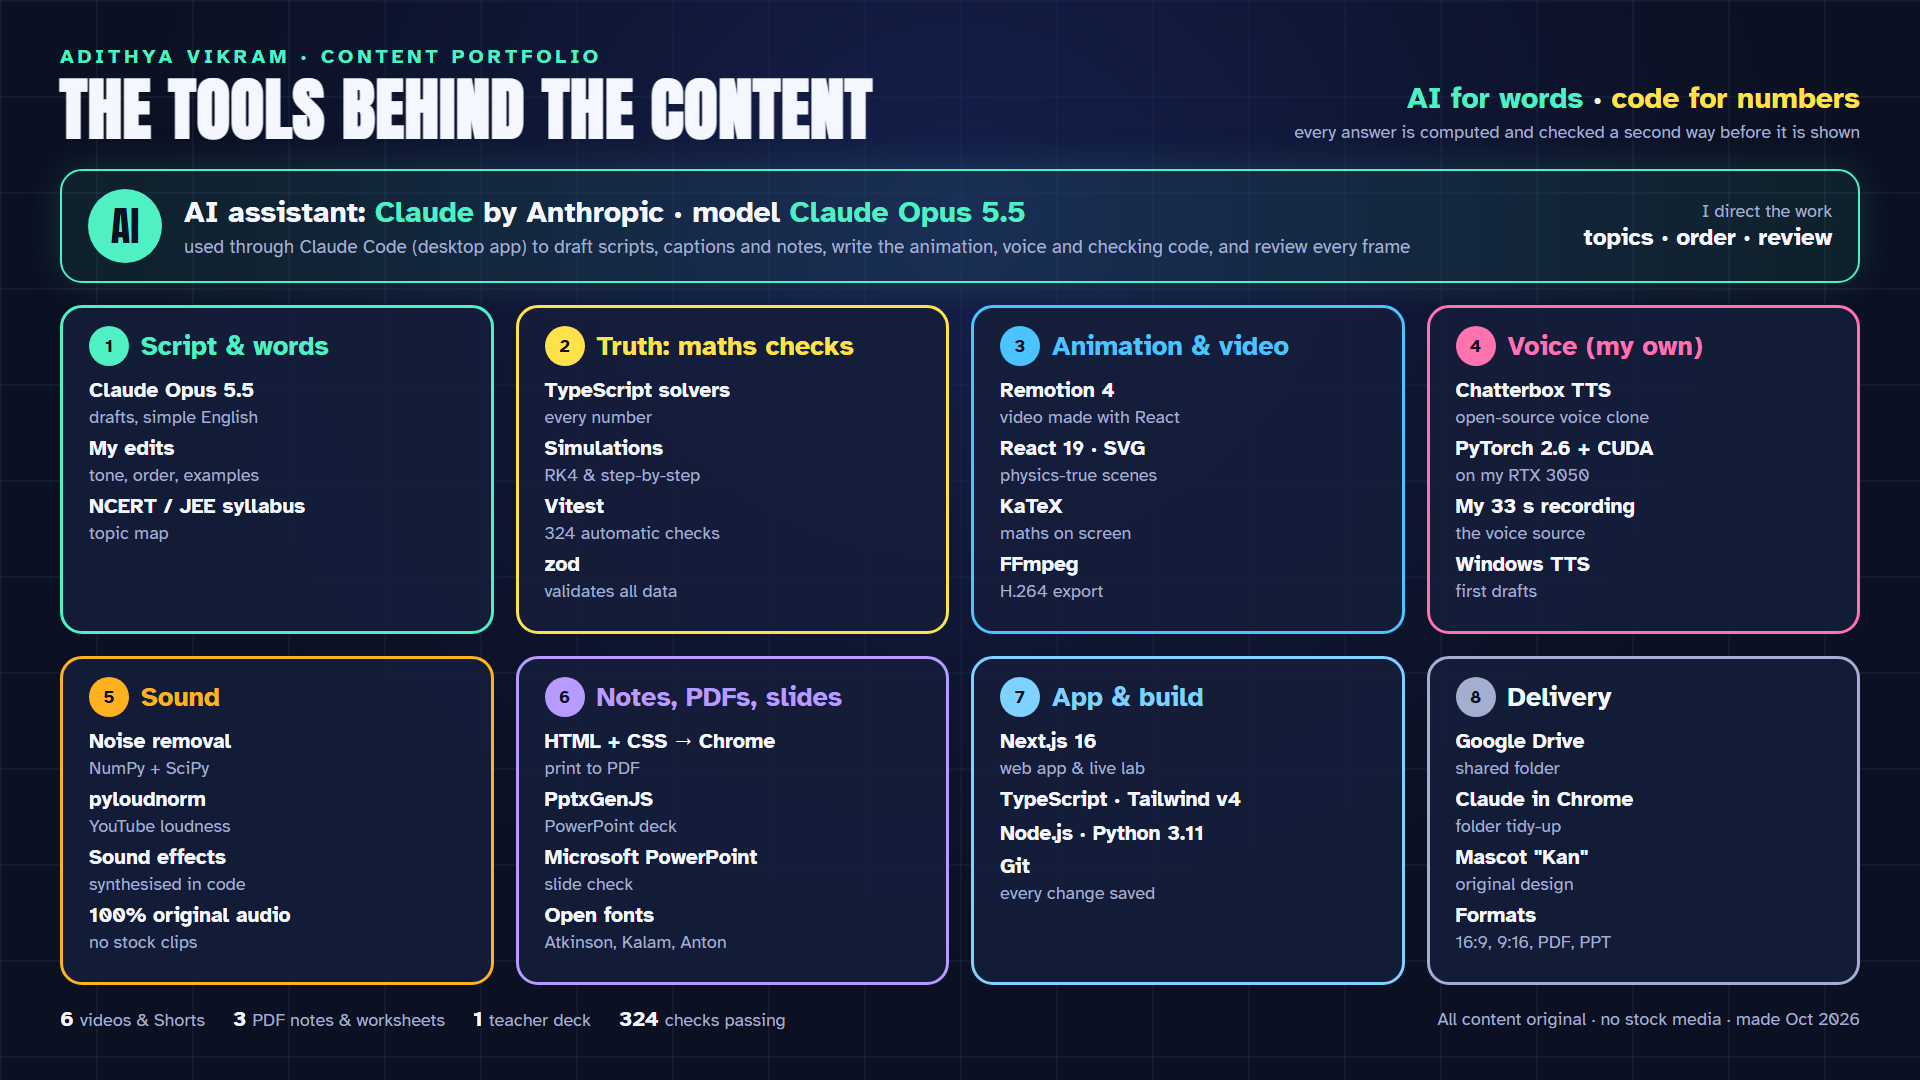
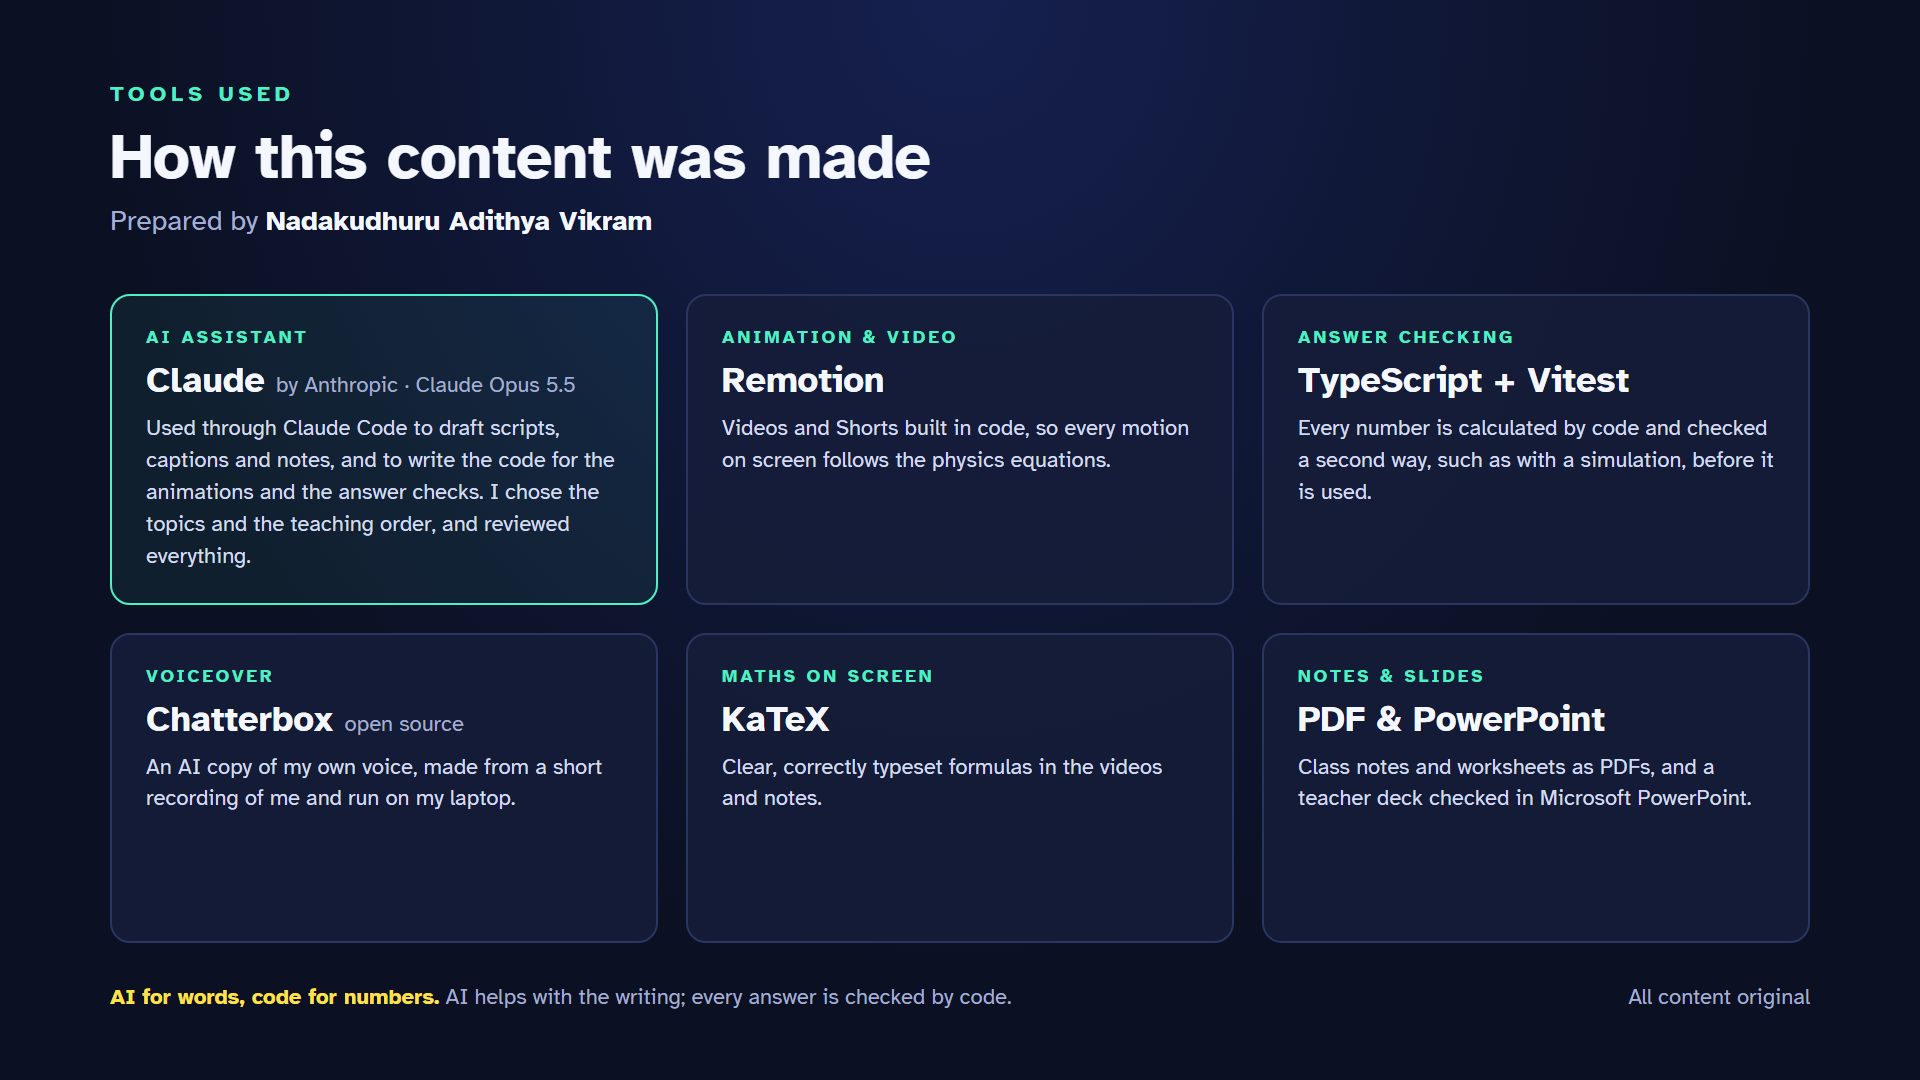
Tools image: main tools only, full name

diff --git a/notes/tools-used.html b/notes/tools-used.html
@@ -2,170 +2,75 @@
 <html lang="en">
 <head>
 <meta charset="utf-8">
-<title>Tools behind the content</title>
+<title>Tools used</title>
 <style>
   @font-face { font-family: "Atkinson Hyperlegible"; src: url("../public/fonts/atkinson-400.woff2") format("woff2"); font-weight: 400; }
   @font-face { font-family: "Atkinson Hyperlegible"; src: url("../public/fonts/atkinson-700.woff2") format("woff2"); font-weight: 700; }
-  @font-face { font-family: Anton; src: url("../public/fonts/anton-400.woff2") format("woff2"); }
-  :root {
-    --board: #0b1022; --raised: #151d3a; --line: #2a3560; --chalk: #f5f7ff; --dim: #a3aed0;
-    --blue: #4cc3ff; --orange: #ffb21f; --pink: #ff72b0; --yellow: #ffe24a; --mint: #4ef0c4; --violet: #b79bff;
-  }
+  :root { --board: #0b1022; --line: #2a3560; --chalk: #f5f7ff; --dim: #a3aed0; --mint: #4ef0c4; --yellow: #ffe24a; }
   * { box-sizing: border-box; }
   html, body { margin: 0; }
   body {
     width: 1920px; height: 1080px; overflow: hidden; color: var(--chalk);
     font-family: "Atkinson Hyperlegible", "Segoe UI", sans-serif;
-    background:
-      radial-gradient(ellipse at 50% 20%, rgba(24,36,90,.75), transparent 60%),
-      linear-gradient(rgba(160,180,255,.06) 2px, transparent 2px) 0 0 / 96px 96px,
-      linear-gradient(90deg, rgba(160,180,255,.06) 2px, transparent 2px) 0 0 / 96px 96px,
-      var(--board);
-    padding: 44px 60px 48px;
-    display: flex; flex-direction: column;
+    background: radial-gradient(ellipse at 50% 0%, rgba(24,36,90,.8), transparent 65%), var(--board);
+    padding: 80px 110px 70px; display: flex; flex-direction: column;
   }
-  header { display: flex; align-items: flex-end; justify-content: space-between; margin-bottom: 26px; }
-  .kicker { font-size: 20px; font-weight: 700; letter-spacing: 4px; color: var(--mint); }
-  h1 { font-family: Anton, Impact, sans-serif; font-size: 68px; line-height: 1; margin: 6px 0 0; letter-spacing: 1px; }
-  .rule { text-align: right; }
-  .rule .big { font-size: 30px; font-weight: 700; }
-  .rule .big b:first-child { color: var(--mint); }
-  .rule .big b:last-child { color: var(--yellow); }
-  .rule .small { color: var(--dim); font-size: 18px; margin-top: 4px; }
-
-  .hero { display: flex; gap: 22px; align-items: center; background: rgba(78,240,196,.08); border: 2px solid var(--mint); border-radius: 22px; padding: 18px 26px; margin-bottom: 22px; box-shadow: 0 0 40px rgba(78,240,196,.15); }
-  .hero .logo { width: 74px; height: 74px; border-radius: 50%; background: var(--mint); color: var(--board); display: flex; align-items: center; justify-content: center; font-family: Anton, sans-serif; font-size: 40px; flex-shrink: 0; }
-  .hero .t { font-size: 30px; font-weight: 700; }
-  .hero .t span { color: var(--mint); }
-  .hero .d { font-size: 19px; color: var(--dim); margin-top: 4px; }
-  .hero .me { margin-left: auto; text-align: right; font-size: 18px; color: var(--dim); }
-  .hero .me b { display: block; font-size: 24px; color: var(--chalk); }
-
-  .flow { display: grid; grid-template-columns: repeat(4, 1fr); grid-auto-rows: 1fr; gap: 22px; flex: 1; }
-  .card { background: rgba(21,29,58,.92); border: 3px solid var(--line); border-radius: 22px; padding: 18px 26px; position: relative; }
-  .card h2 { margin: 0 0 10px; font-size: 27px; display: flex; align-items: center; gap: 12px; }
-  .num { width: 40px; height: 40px; border-radius: 50%; display: inline-flex; align-items: center; justify-content: center; font-size: 18px; font-weight: 700; color: var(--board); flex-shrink: 0; }
-  .card ul { list-style: none; margin: 0; padding: 0; }
-  .card li { font-size: 21px; line-height: 1.36; margin: 5px 0; color: var(--chalk); }
-  .card li b { font-weight: 700; }
-  .card li i { font-style: normal; color: var(--dim); display: block; font-size: 18px; }
-  .c1 { border-color: var(--mint); } .c1 .num { background: var(--mint); } .c1 h2 { color: var(--mint); }
-  .c2 { border-color: var(--yellow); } .c2 .num { background: var(--yellow); } .c2 h2 { color: var(--yellow); }
-  .c3 { border-color: var(--blue); } .c3 .num { background: var(--blue); } .c3 h2 { color: var(--blue); }
-  .c4 { border-color: var(--pink); } .c4 .num { background: var(--pink); } .c4 h2 { color: var(--pink); }
-  .c5 { border-color: var(--orange); } .c5 .num { background: var(--orange); } .c5 h2 { color: var(--orange); }
-  .c6 { border-color: var(--violet); } .c6 .num { background: var(--violet); } .c6 h2 { color: var(--violet); }
-  .c7 { border-color: #7fd1ff; } .c7 .num { background: #7fd1ff; } .c7 h2 { color: #7fd1ff; }
-  .c8 { border-color: var(--dim); } .c8 .num { background: var(--dim); } .c8 h2 { color: var(--chalk); }
-
-  footer { display: flex; justify-content: space-between; align-items: center; margin-top: 20px; color: var(--dim); font-size: 18px; }
-  .stats { display: flex; gap: 28px; }
-  .stats div b { color: var(--chalk); font-size: 22px; margin-right: 6px; }
+  .kicker { font-size: 22px; font-weight: 700; letter-spacing: 5px; color: var(--mint); }
+  h1 { font-size: 64px; margin: 10px 0 6px; font-weight: 700; letter-spacing: -0.5px; }
+  .name { font-size: 28px; color: var(--dim); }
+  .name b { color: var(--chalk); }
+  .grid { display: grid; grid-template-columns: repeat(3, 1fr); grid-auto-rows: 1fr; gap: 28px; margin-top: 56px; flex: 1; }
+  .tool { border: 2px solid var(--line); border-radius: 20px; padding: 30px 34px; background: rgba(21,29,58,.85); display: flex; flex-direction: column; }
+  .tool .what { font-size: 18px; font-weight: 700; letter-spacing: 3px; color: var(--mint); }
+  .tool .t { font-size: 36px; font-weight: 700; margin: 10px 0 10px; }
+  .tool .t span { font-size: 22px; color: var(--dim); font-weight: 400; }
+  .tool .d { font-size: 22px; line-height: 1.45; color: #d4dbf0; }
+  .tool.ai { border-color: var(--mint); background: rgba(78,240,196,.07); }
+  footer { margin-top: 40px; display: flex; justify-content: space-between; align-items: center; font-size: 22px; color: var(--dim); }
+  footer b { color: var(--yellow); }
 </style>
 </head>
 <body>
-  <header>
-    <div>
-      <div class="kicker">ADITHYA VIKRAM · CONTENT PORTFOLIO</div>
-      <h1>THE TOOLS BEHIND THE CONTENT</h1>
-    </div>
-    <div class="rule">
-      <div class="big"><b>AI for words</b> · <b>code for numbers</b></div>
-      <div class="small">every answer is computed and checked a second way before it is shown</div>
-    </div>
-  </header>
+  <div class="kicker">TOOLS USED</div>
+  <h1>How this content was made</h1>
+  <div class="name">Prepared by <b>Nadakudhuru Adithya Vikram</b></div>
 
-  <div class="hero">
-    <div class="logo">AI</div>
-    <div>
-      <div class="t">AI assistant: <span>Claude</span> by Anthropic · model <span>Claude Opus 5.5</span></div>
-      <div class="d">used through Claude Code (desktop app) to draft scripts, captions and notes, write the animation, voice and checking code, and review every frame</div>
+  <div class="grid">
+    <div class="tool ai">
+      <div class="what">AI ASSISTANT</div>
+      <div class="t">Claude <span>by Anthropic · Claude Opus 5.5</span></div>
+      <div class="d">Used through Claude Code to draft scripts, captions and notes, and to write the code for the animations and the answer checks. I chose the topics and the teaching order, and reviewed everything.</div>
     </div>
-    <div class="me">I direct the work<b>topics · order · review</b></div>
-  </div>
-
-  <div class="flow">
-    <div class="card c1">
-      <h2><span class="num">1</span>Script &amp; words</h2>
-      <ul>
-        <li><b>Claude Opus 5.5</b> <i>drafts, simple English</i></li>
-        <li><b>My edits</b> <i>tone, order, examples</i></li>
-        <li><b>NCERT / JEE syllabus</b> <i>topic map</i></li>
-      </ul>
+    <div class="tool">
+      <div class="what">ANIMATION &amp; VIDEO</div>
+      <div class="t">Remotion</div>
+      <div class="d">Videos and Shorts built in code, so every motion on screen follows the physics equations.</div>
     </div>
-    <div class="card c2">
-      <h2><span class="num">2</span>Truth: maths checks</h2>
-      <ul>
-        <li><b>TypeScript solvers</b> <i>every number</i></li>
-        <li><b>Simulations</b> <i>RK4 &amp; step-by-step</i></li>
-        <li><b>Vitest</b> <i>324 automatic checks</i></li>
-        <li><b>zod</b> <i>validates all data</i></li>
-      </ul>
+    <div class="tool">
+      <div class="what">ANSWER CHECKING</div>
+      <div class="t">TypeScript + Vitest</div>
+      <div class="d">Every number is calculated by code and checked a second way, such as with a simulation, before it is used.</div>
     </div>
-    <div class="card c3">
-      <h2><span class="num">3</span>Animation &amp; video</h2>
-      <ul>
-        <li><b>Remotion 4</b> <i>video made with React</i></li>
-        <li><b>React 19 · SVG</b> <i>physics-true scenes</i></li>
-        <li><b>KaTeX</b> <i>maths on screen</i></li>
-        <li><b>FFmpeg</b> <i>H.264 export</i></li>
-      </ul>
+    <div class="tool">
+      <div class="what">VOICEOVER</div>
+      <div class="t">Chatterbox <span>open source</span></div>
+      <div class="d">An AI copy of my own voice, made from a short recording of me and run on my laptop.</div>
     </div>
-    <div class="card c4">
-      <h2><span class="num">4</span>Voice (my own)</h2>
-      <ul>
-        <li><b>Chatterbox TTS</b> <i>open-source voice clone</i></li>
-        <li><b>PyTorch 2.6 + CUDA</b> <i>on my RTX 3050</i></li>
-        <li><b>My 33 s recording</b> <i>the voice source</i></li>
-        <li><b>Windows TTS</b> <i>first drafts</i></li>
-      </ul>
+    <div class="tool">
+      <div class="what">MATHS ON SCREEN</div>
+      <div class="t">KaTeX</div>
+      <div class="d">Clear, correctly typeset formulas in the videos and notes.</div>
     </div>
-    <div class="card c5">
-      <h2><span class="num">5</span>Sound</h2>
-      <ul>
-        <li><b>Noise removal</b> <i>NumPy + SciPy</i></li>
-        <li><b>pyloudnorm</b> <i>YouTube loudness</i></li>
-        <li><b>Sound effects</b> <i>synthesised in code</i></li>
-        <li><b>100% original audio</b> <i>no stock clips</i></li>
-      </ul>
-    </div>
-    <div class="card c6">
-      <h2><span class="num">6</span>Notes, PDFs, slides</h2>
-      <ul>
-        <li><b>HTML + CSS → Chrome</b> <i>print to PDF</i></li>
-        <li><b>PptxGenJS</b> <i>PowerPoint deck</i></li>
-        <li><b>Microsoft PowerPoint</b> <i>slide check</i></li>
-        <li><b>Open fonts</b> <i>Atkinson, Kalam, Anton</i></li>
-      </ul>
-    </div>
-    <div class="card c7">
-      <h2><span class="num">7</span>App &amp; build</h2>
-      <ul>
-        <li><b>Next.js 16</b> <i>web app &amp; live lab</i></li>
-        <li><b>TypeScript · Tailwind v4</b></li>
-        <li><b>Node.js · Python 3.11</b></li>
-        <li><b>Git</b> <i>every change saved</i></li>
-      </ul>
-    </div>
-    <div class="card c8">
-      <h2><span class="num">8</span>Delivery</h2>
-      <ul>
-        <li><b>Google Drive</b> <i>shared folder</i></li>
-        <li><b>Claude in Chrome</b> <i>folder tidy-up</i></li>
-        <li><b>Mascot "Kan"</b> <i>original design</i></li>
-        <li><b>Formats</b> <i>16:9, 9:16, PDF, PPT</i></li>
-      </ul>
+    <div class="tool">
+      <div class="what">NOTES &amp; SLIDES</div>
+      <div class="t">PDF &amp; PowerPoint</div>
+      <div class="d">Class notes and worksheets as PDFs, and a teacher deck checked in Microsoft PowerPoint.</div>
     </div>
   </div>
 
   <footer>
-    <div class="stats">
-      <div><b>6</b>videos &amp; Shorts</div>
-      <div><b>3</b>PDF notes &amp; worksheets</div>
-      <div><b>1</b>teacher deck</div>
-      <div><b>324</b>checks passing</div>
-    </div>
-    <div>All content original · no stock media · made Oct 2026</div>
+    <div><b>AI for words, code for numbers.</b> AI helps with the writing; every answer is checked by code.</div>
+    <div>All content original</div>
   </footer>
 </body>
 </html>
